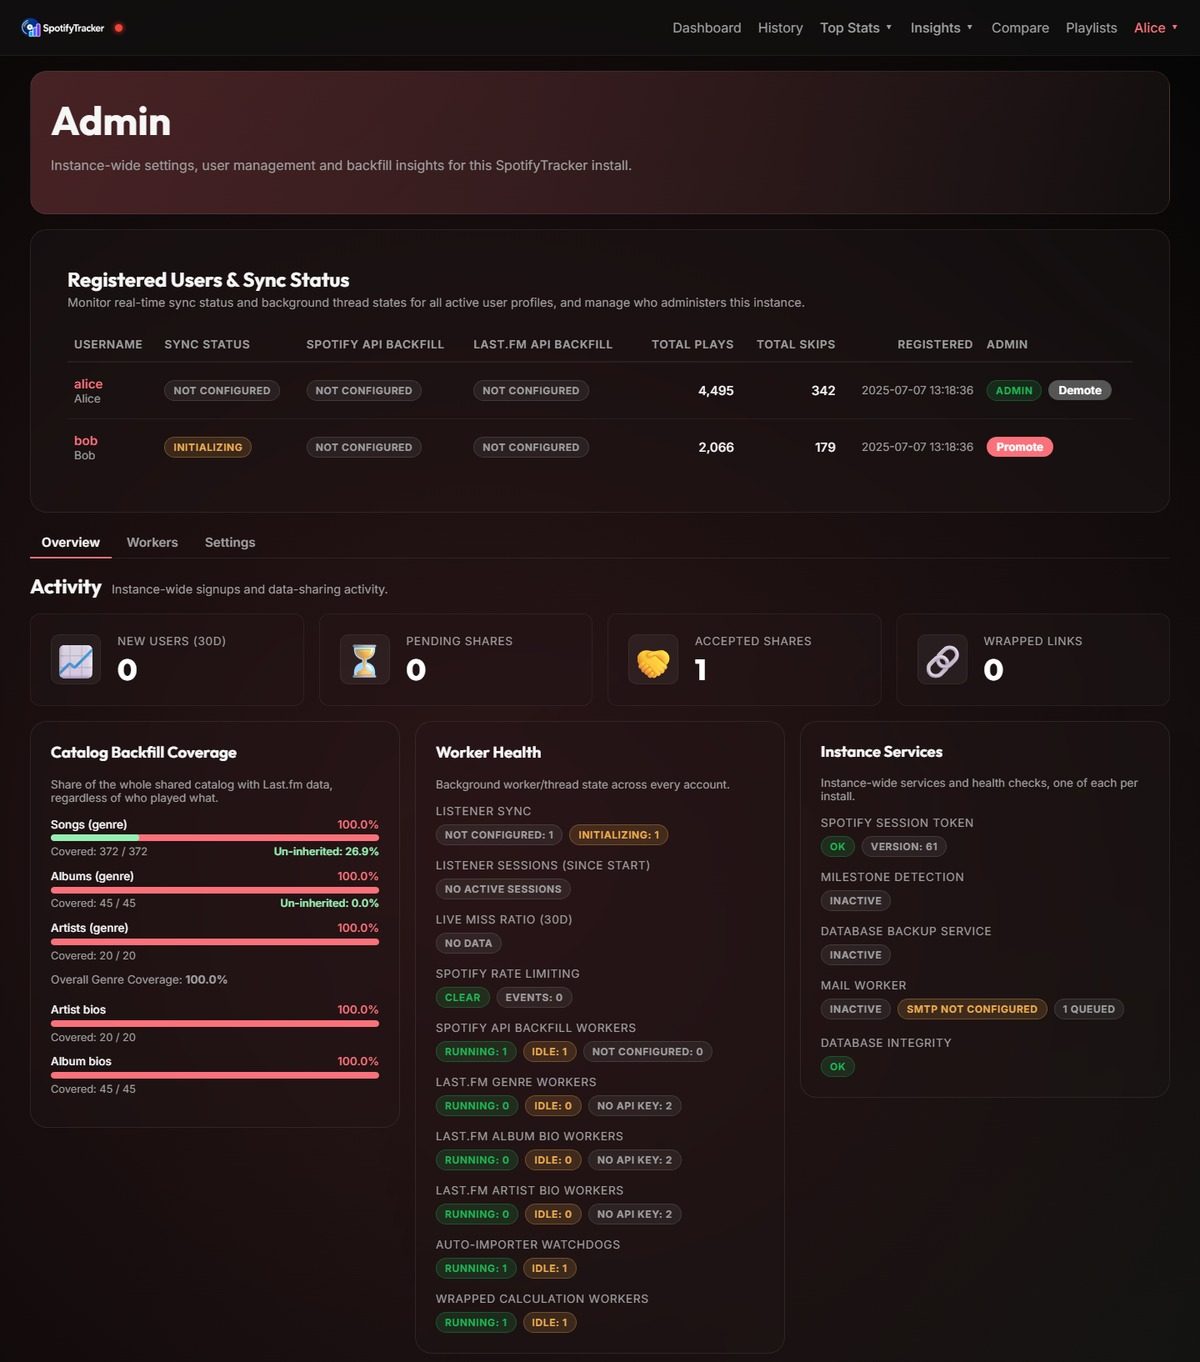
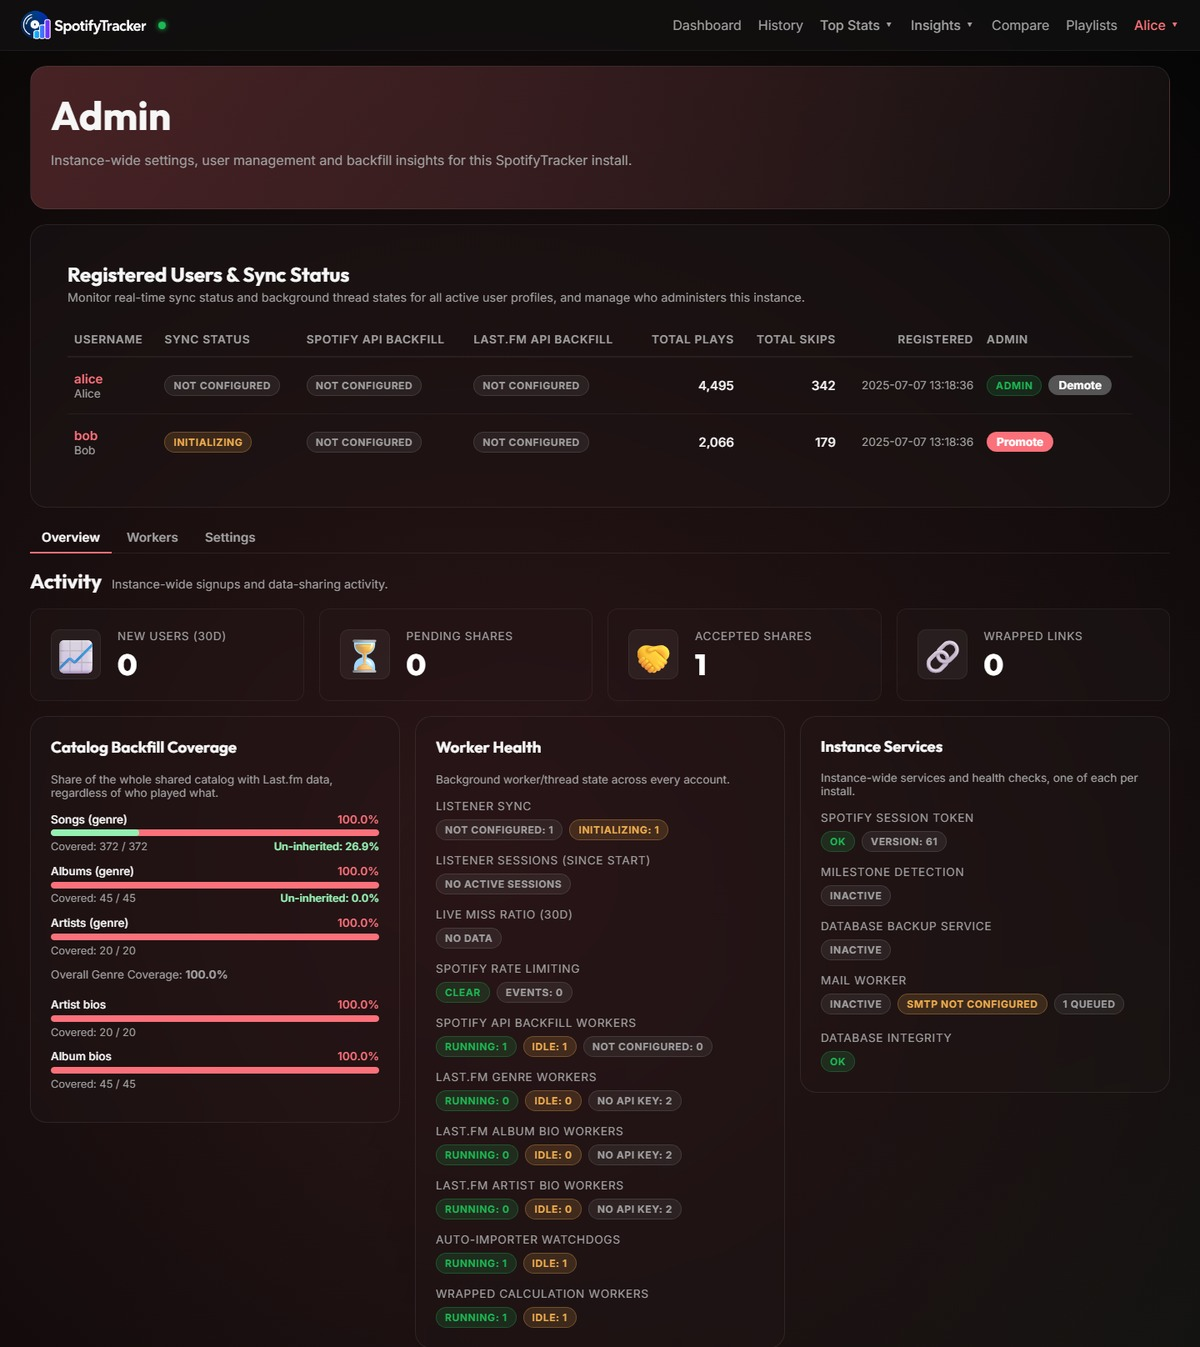
feat(brand): size the wordmark so its lettering matches the text it replaced
The logo went in at 104x32 in the topbar and 182x56 on the Overview hero,
which made the name noticeably smaller than the text it replaced. In
wordmark-on-dark.png the icon occupies the full 160px of the image while
the lettering's cap height is 46px of it, so the ratio to work back from
is 0.2875 - not the image height.

The old .brand text was Outfit 700 at 1.2rem (19.2px), a 14.0px cap; the
old Overview <h1> was 32px, a 23.3px cap. That puts the images at 48px
and 80px tall, and the file's 3.25 aspect makes them 156x48 and 260x80.
Measured on a preview instance: 13.8px and 23.0px of cap, against the
14.0 and 23.3 they replace. The phone mark grows 32 -> 48 to match, so
the bar is the same height either side of the breakpoint.

A 48px image inside .topbar's 14px padding made a 77px bar, up from 52.
Trimming that padding to 6px brings it back to 61px; the nav links and
badges carry their own padding, so no hit area shrinks. --topbar-height
follows, since #anchor jumps offset by it.

Screenshots re-shot, because the committed ones show the old sizes. The
capture pass now backs a capped page's cut up to the last gap between
cards instead of slicing whichever card the window ended inside.

diff --git a/static/css/style.css b/static/css/style.css
@@ -14,11 +14,12 @@
   --text: #f6f6f6;
   --muted: #a0a0a0;
   --border: rgba(255, 255, 255, 0.08);
-  /* Resting height of the sticky .topbar: 14px padding, a 1.2rem brand line and
-     a 1px border. Used as a scroll offset so #anchor jumps do not land under
-     it. Approximate on purpose - the bar is flex-wrap, so badges can make it
-     taller; erring low just leaves the target slightly higher on the screen. */
-  --topbar-height: 52px;
+  /* Resting height of the sticky .topbar: 6px padding top and bottom, the
+     48px-tall brand image (layout.html) and a 1px border. Used as a scroll
+     offset so #anchor jumps do not land under it. Approximate on purpose -
+     the bar is flex-wrap, so badges can make it taller; erring low just
+     leaves the target slightly higher on the screen. */
+  --topbar-height: 61px;
   /* Tokens the admin/profile inline styles reference with a hardcoded fallback
      (var(--fg, #f0f0f0) etc.). Defining them once here - at their existing
      fallback values, so appearance is unchanged - single-sources them and lets
@@ -185,7 +186,11 @@ button {
   display: flex;
   justify-content: space-between;
   align-items: center;
-  padding: 14px 24px;
+  /* Vertical padding is 6px rather than the 14px the rest of the chrome uses:
+     the brand image is 48px tall (the size its lettering has to be to match
+     the 1.2rem text it replaced), and at 14px that made a 77px bar. The nav
+     links and badges have their own padding, so they keep their hit areas. */
+  padding: 6px 24px;
   border-bottom: 1px solid var(--glass-border);
   background: var(--glass-bg);
   backdrop-filter: blur(16px) saturate(180%);

diff --git a/templates/layout.html b/templates/layout.html
@@ -74,9 +74,9 @@
             width/height are declared because .topbar is sticky and flex-wrap:
             without a reserved box the whole row, badges included, reflows the
             moment the PNG decodes. tests/test_brand_assets.py. -#}
-        <img class="brand-logo" width="104" height="32" alt="SpotifyTracker"
+        <img class="brand-logo" width="156" height="48" alt="SpotifyTracker"
              src="{{ url_for('static', filename='images/brand/wordmark-on-dark.png') }}">
-        <img class="brand-mark" width="32" height="32" alt="SpotifyTracker"
+        <img class="brand-mark" width="48" height="48" alt="SpotifyTracker"
              src="{{ url_for('static', filename='images/brand/icon.png') }}">
         {# UI-07 (2026-09-02 review): the pill's state was colour (its class)
            and a hover-only title - nothing a screen reader could read without

diff --git a/static/js/layout-chrome.js b/static/js/layout-chrome.js
@@ -133,7 +133,7 @@ const LISTENER_STATUS_POLL_MS = 10 * 1000;
   // viewport, so its height is (viewport - topbar). .topbar is flex-wrap and
   // grows a second row for any of the four badges (share request, accepted
   // share, milestone, Spotify reauth), so that height is not a constant: the
-  // literal this replaces said 62px, --topbar-height says 52px, and with a
+  // literal this replaces said 62px, --topbar-height says 61px, and with a
   // badge showing neither was right.
   const TOPBAR_HEIGHT_VAR = '--topbar-current-height';
 

diff --git a/templates/overview.html b/templates/overview.html
@@ -11,7 +11,7 @@
         rather than the words. Still an <h1> with an accessible name - the alt
         text carries it - so the page keeps its single top-level heading. -#}
     <h1 class="hero-wordmark">
-      <img width="182" height="56" alt="SpotifyTracker"
+      <img width="260" height="80" alt="SpotifyTracker"
            src="{{ url_for('static', filename='images/brand/wordmark-on-dark.png') }}">
     </h1>
     <p>A central system-wide overview of tracked metrics, platform features, and real-time synchronization status.</p>
